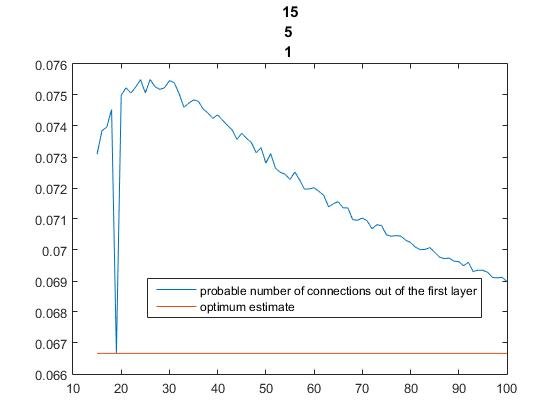
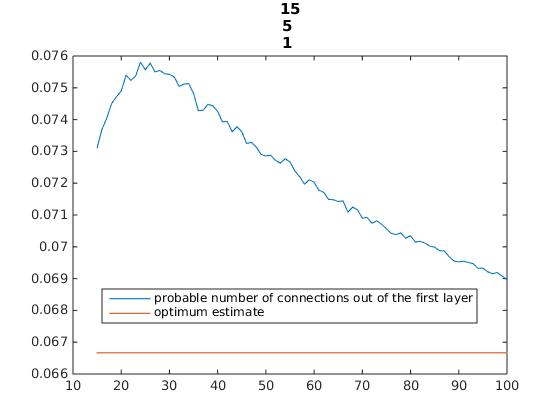
Works on the connectgen2 to try and connect things as simply as possible.

diff --git a/ConnectGen2.m b/ConnectGen2.m
@@ -1,4 +1,4 @@
-function[ C ] = ConnectGen2(L, totalconnections)
+function[ C ] = ConnectGen2(L, extraconnections)
 
 % input L = the vector of layers 
 %totalconnections = how many connects the top layer should send to the
@@ -12,39 +12,54 @@ function[ C ] = ConnectGen2(L, totalconnections)
 
 
 C = zeros(sum(L),sum(L));
+totalconnections = extraconnections + L(1);
 
-% connectto = 0;
-% 
-% for i = 1:length(L)-1
-%     connectto = [totalconnections(length(L)-i)*ones(1,L(length(L)-i)) connectto];
-% end
+minconnected = ones(L(1),1);
 
 
 %First add the connections from the second layer to the last.
 C(sum(L),L(1)+1:L(1)+L(2)) = 1;
 
-%First we preconnection from the second layer up to the first to make sure no agent is left
-%out.
+%First we preconnection from the second layer up to the first to make sure
+%that no agent in the second layer is left out.
+
 %Right now this will have the effect of adding more than totalconnections
 
 for j = 1:L(2)
+    %randomly pick one of the agents in the first layer
     pick = randi(L(1));
+    %assign the connection from that first layer agent to our agent
     C(L(1)+j, pick) = 1;
+    minconnected(pick,1) = 0;
 end
 
-%Now finish the layer 1 connections.
+%Now make sure everyone in the first layer is connected:
+
+C(1:L(1),L(1)+1:L(1)+L(2)) = minconnected
+%Next, we throw up extraconnections.
+
+toconnect = sort(perm(L(1)*L(2),extraconnections);
+for i = 1:extraconnections;
+    C(mod(toconnect(i),L(2)),ceil(toconnect(i)/L(2))) = 1;
+end
+
 for i = 1:L(1)
     if sum(C(:,i)) == 0
         pick = L(1) + randi(L(2));
         C(pick, i) = 1;
-        totalconnections = totalconnections - 1;
     end
 end
 
-if totalconnections > 0
-    for k = 1:totalconnections
+if extraconnections > 0
+    for k = 1:extraconnections
         pick1 = randi(L(1));
+        while sum(C(:,pick1)) == L(1) %if the agent is fully connected, pick a different one
+            pick1 = randi(L(1));
+        end
         pick2 = L(1) + randi(L(2));
+        while C(pick2,pick1) == 1
+            pick2 = L(1) + randi(L(2));
+        end
         C(pick2,pick1) = 1;  %note/caution for future that this ignores the fact that this may already be a connection
     end
 end

diff --git a/ConnectionComparison2.m b/ConnectionComparison2.m
@@ -7,18 +7,19 @@
 L = [15 5 1];
 runs = 400;
 
-opt = (1/L(1))*ones(1,86);
+maxtotalconnections = L(1)*L(2) - L(1);
+opt = (1/L(1))*ones(1,1+maxtotalconnections);
 %general
 
 %function[ x ] = ConnectionComparison(L, runs)
-numofconnections = 15:100;
-error = zeros(1,86);  
+numofconnections = 1:1+maxtotalconnections;
+error = zeros(1,1+maxtotalconnections);  
 
-for i = 1:86
-    error(i) = ConnectionTester4(L,i+14,runs)
+for i = 1:1+maxtotalconnections
+    error(i) = ConnectionTester4(L,i-1,runs)
 end
 
-error(L(2)) = opt(1); %basically assuming this for now until the algorithm is trimmed enough to handle larger networks, this is fine to assume because it is the assumption that all information is received by all second layer agents
+
 
 error;
 plot(numofconnections,error,numofconnections, opt)
